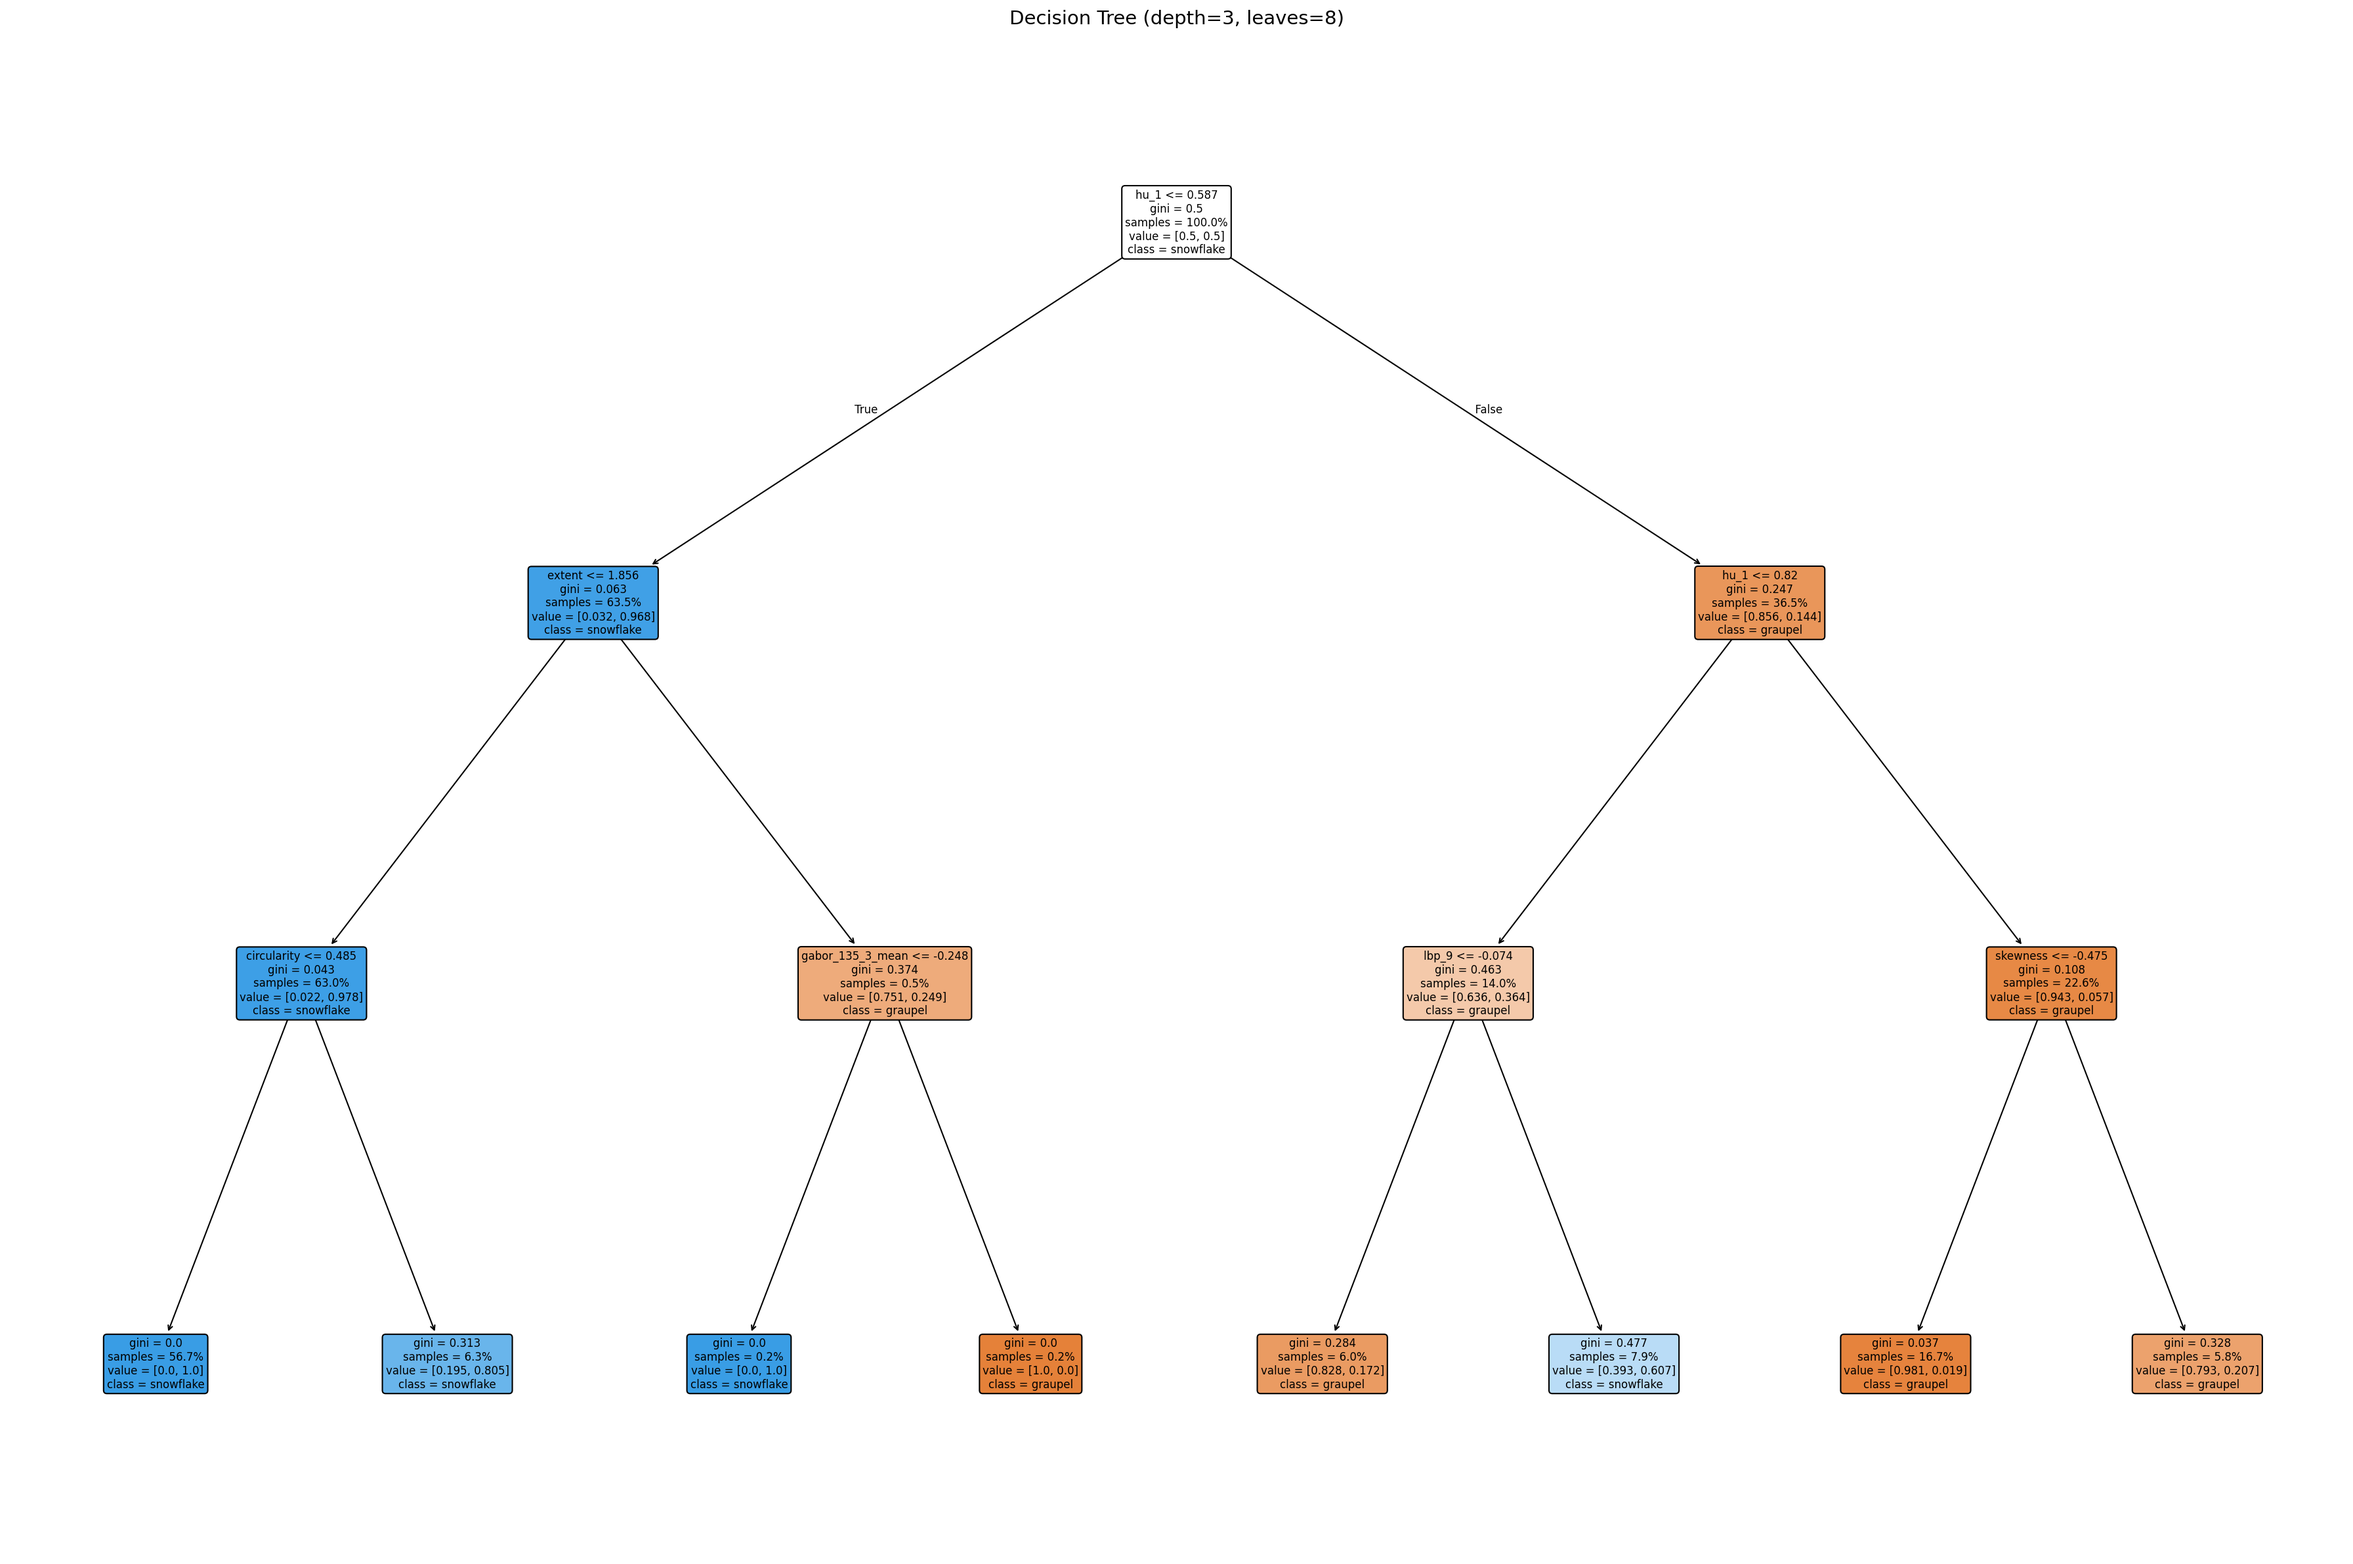
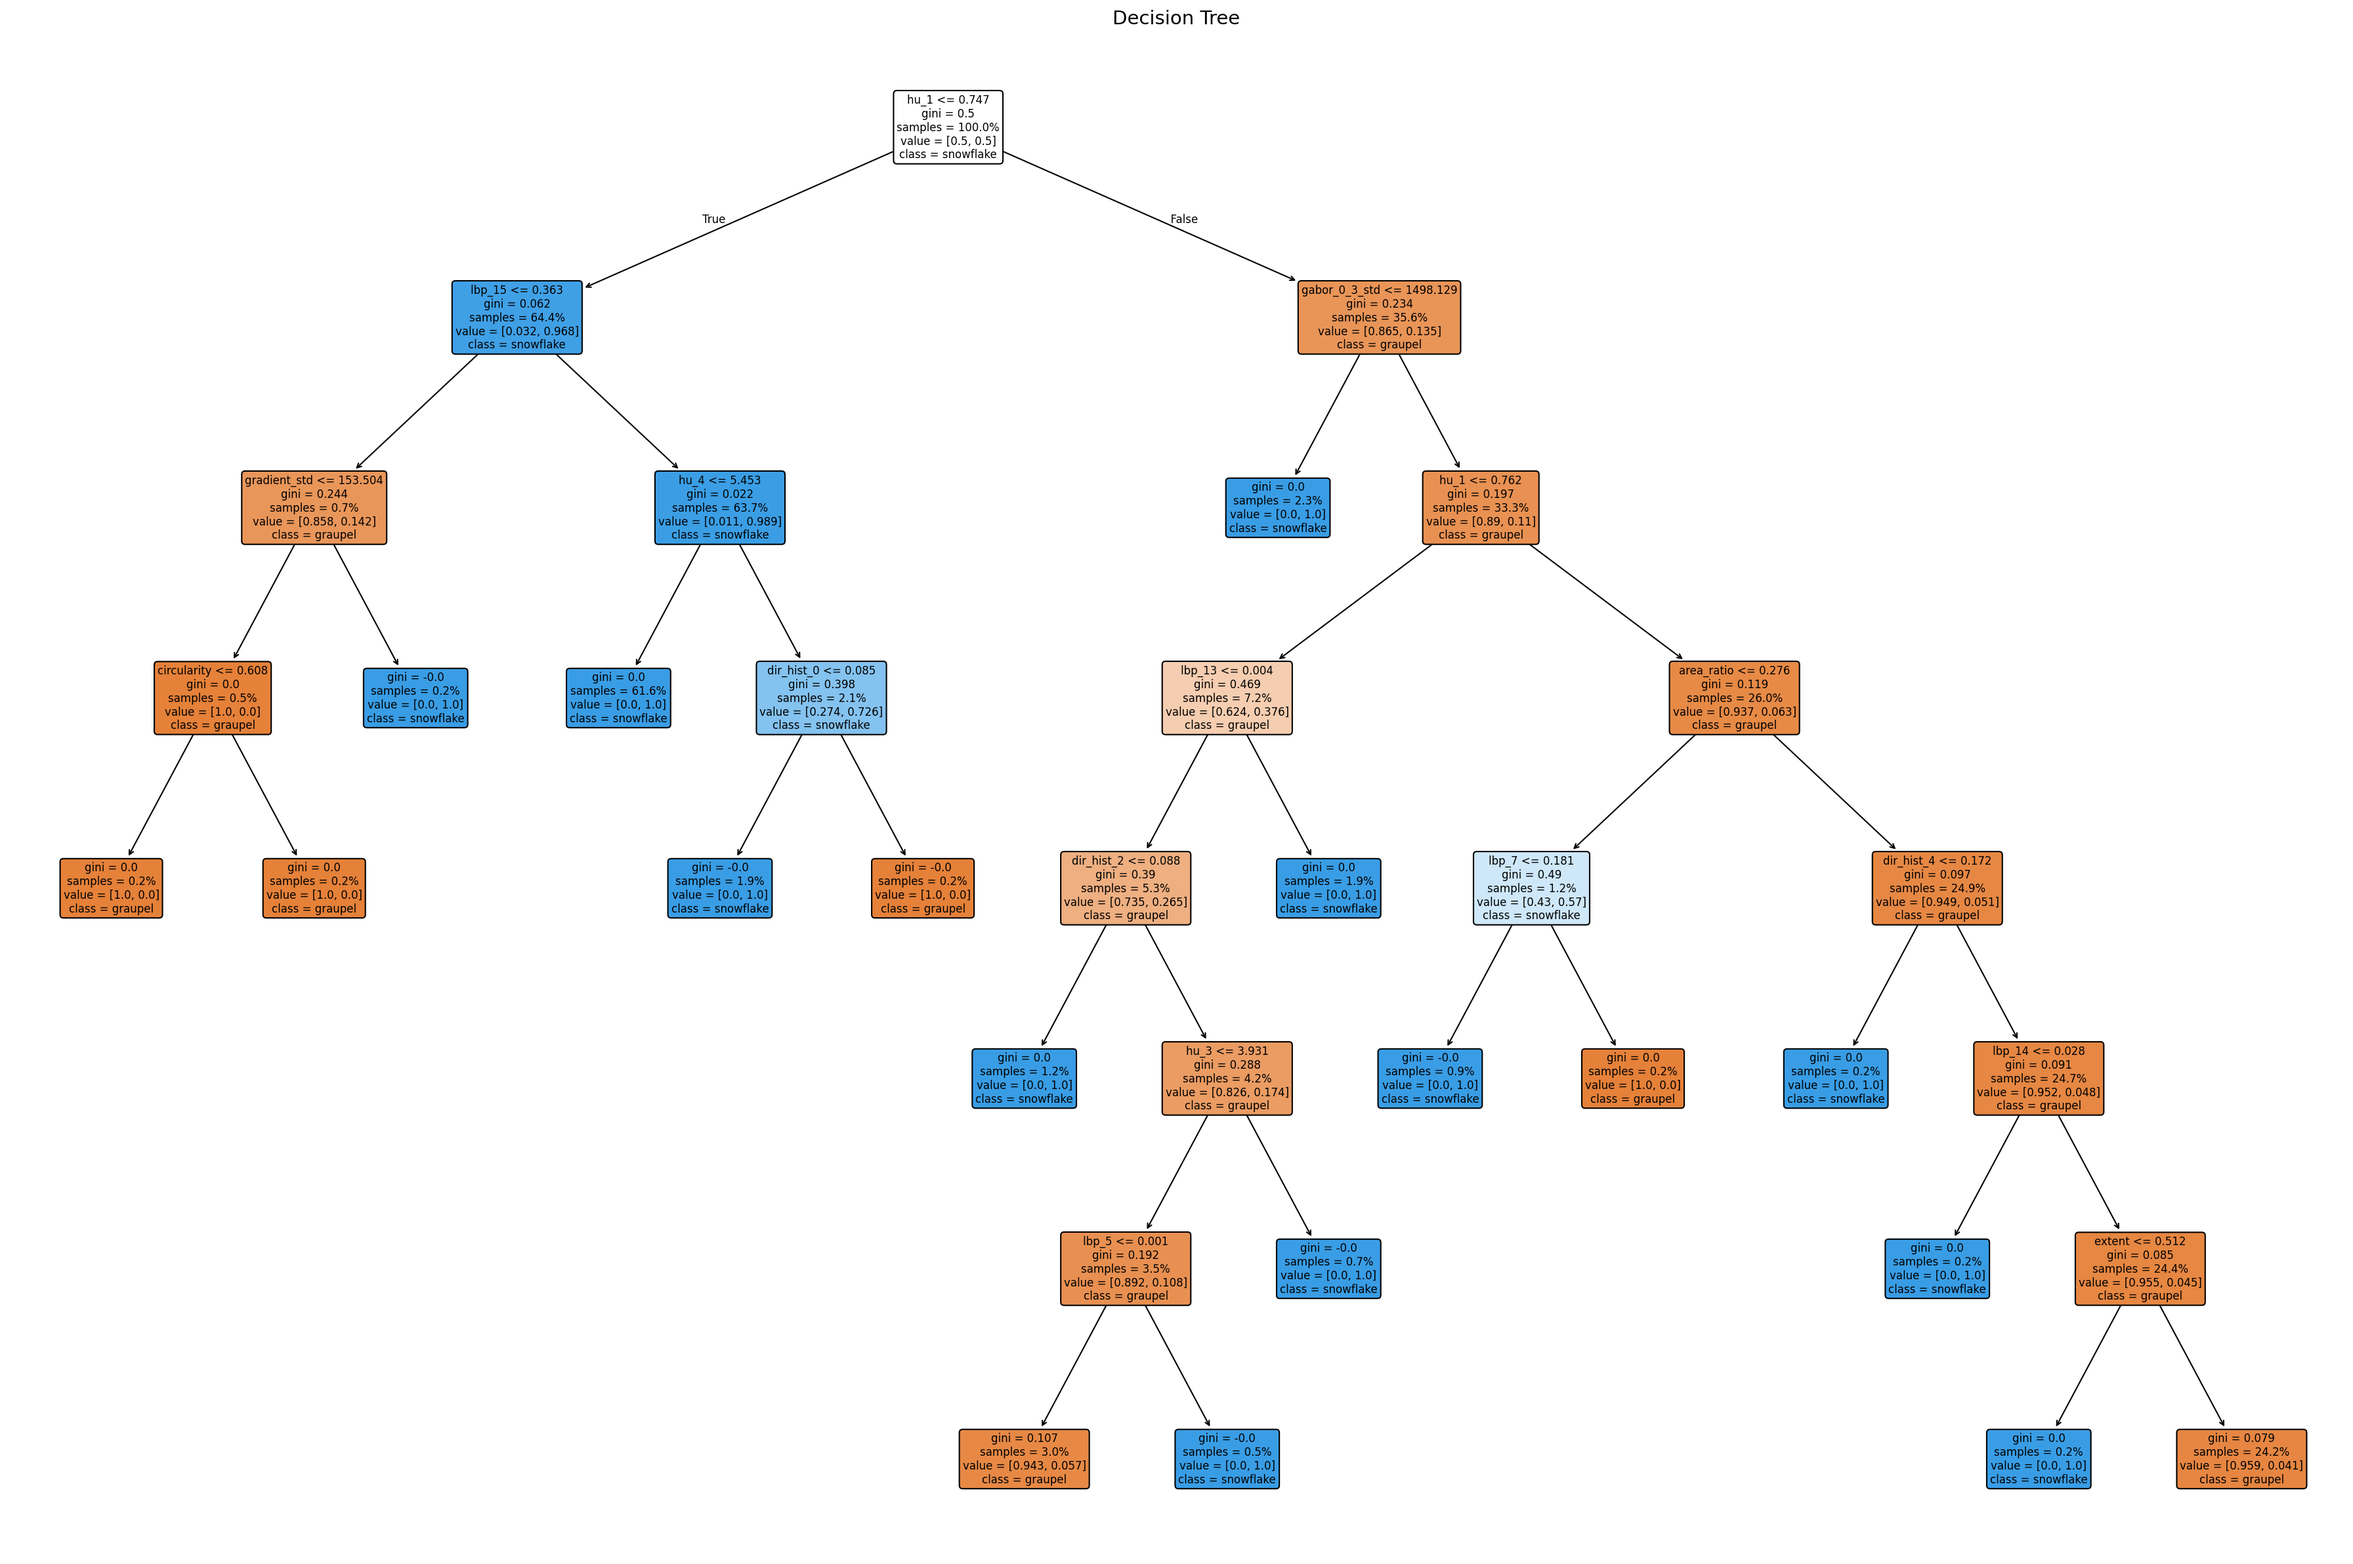
Remove unnecessary image resize and padding
- Remove resize_with_padding function
- Load images with their original sizes
- Remove --image-size command line argument
- Update type annotations to use list[np.ndarray] for images
- Update docstrings to reflect that images can have different sizes

diff --git a/scripts/main.py b/scripts/main.py
@@ -47,7 +47,7 @@ def compute_metrics(y_true: np.ndarray, y_pred: np.ndarray) -> dict[str, float |
 
 
 def run_cross_validation(
-    images: np.ndarray,
+    images: list[np.ndarray],
     labels: np.ndarray,
     n_folds: int = 5,
     random_seed: int = 42,
@@ -56,8 +56,8 @@ def run_cross_validation(
     クロスバリデーションを実行する
 
     Args:
-        images: 画像データ (N, H, W, C)
-        labels: ラベル (N,)
+        images: 画像データのリスト（各画像は(H, W, C)のRGB画像）
+        labels: ラベル配列 (N,)
         n_folds: 分割数
         random_seed: 乱数シード
 
@@ -82,7 +82,8 @@ def run_cross_validation(
     # 各Foldで訓練と評価を実行
     for fold_idx, (train_idx, test_idx) in enumerate(skf.split(images, labels)):
         # 訓練データとテストデータに分割
-        images_train, images_test = images[train_idx], images[test_idx]
+        images_train = [images[i] for i in train_idx]
+        images_test = [images[i] for i in test_idx]
         labels_train, labels_test = labels[train_idx], labels[test_idx]
 
         # 分類器を作成して訓練
@@ -145,7 +146,6 @@ def main(
     data_dir: Path,
     output_dir: Path,
     n_folds: int,
-    image_size: int,
     seed: int,
 ) -> None:
     """メイン関数"""
@@ -157,7 +157,7 @@ def main(
 
     # データ読み込み
     print("\nLoading data...")
-    images, labels, class_names = load_dataset(data_dir, (image_size, image_size))
+    images, labels, class_names = load_dataset(data_dir)
     print(f"  Samples: {len(images)}, Classes: {dict(zip(class_names, np.bincount(labels)))}")
 
     # クロスバリデーション
@@ -185,8 +185,7 @@ if __name__ == "__main__":
     parser.add_argument("--data-dir", type=str, default="dataset")
     parser.add_argument("--output-dir", type=str, default="output")
     parser.add_argument("--n-folds", type=int, default=5)
-    parser.add_argument("--image-size", type=int, default=128)
     parser.add_argument("--seed", type=int, default=42)
     args = parser.parse_args()
 
-    main(Path(args.data_dir), Path(args.output_dir), args.n_folds, args.image_size, args.seed)
+    main(Path(args.data_dir), Path(args.output_dir), args.n_folds, args.seed)

diff --git a/scripts/utils.py b/scripts/utils.py
@@ -6,22 +6,18 @@ import cv2
 import numpy as np
 
 
-def resize_with_padding(image: np.ndarray, target_size: tuple[int, int]) -> np.ndarray:
-    """アスペクト比を維持しながらパディングでサイズを揃える"""
-    h, w = image.shape[:2]
-    target_h, target_w = target_size
-    scale = min(target_w / w, target_h / h)
-    new_w, new_h = int(w * scale), int(h * scale)
-
-    resized = cv2.resize(image, (new_w, new_h), interpolation=cv2.INTER_AREA)
-    padded = np.zeros((target_h, target_w, image.shape[2]), dtype=image.dtype)
-    pad_h, pad_w = (target_h - new_h) // 2, (target_w - new_w) // 2
-    padded[pad_h:pad_h + new_h, pad_w:pad_w + new_w] = resized
-    return padded
-
-
-def load_dataset(data_dir: Path, image_size: tuple[int, int]) -> tuple[np.ndarray, np.ndarray, list[str]]:
-    """データセットを読み込む"""
+def load_dataset(data_dir: Path) -> tuple[list[np.ndarray], np.ndarray, list[str]]:
+    """
+    データセットを読み込む
+    
+    Args:
+        data_dir: データセットのディレクトリ
+    
+    Returns:
+        images: 画像のリスト（各画像はサイズが異なる可能性あり）
+        labels: ラベル配列
+        class_names: クラス名のリスト
+    """
     class_names = ["graupel", "snowflake"]
     images, labels = [], []
 
@@ -31,8 +27,8 @@ def load_dataset(data_dir: Path, image_size: tuple[int, int]) -> tuple[np.ndarra
             img = cv2.imread(str(img_path))
             if img is not None:
                 img = cv2.cvtColor(img, cv2.COLOR_BGR2RGB)
-                images.append(resize_with_padding(img, image_size))
+                images.append(img)
                 labels.append(label)
 
-    return np.array(images), np.array(labels), class_names
+    return images, np.array(labels), class_names
 

diff --git a/scripts/visualize_tree.py b/scripts/visualize_tree.py
@@ -16,9 +16,12 @@ from snow_crystal_classifier import SnowCrystalClassifier
 from utils import load_dataset
 
 
-def extract_features(images: np.ndarray) -> tuple[np.ndarray, list[str]]:
+def extract_features(images: list[np.ndarray]) -> tuple[np.ndarray, list[str]]:
     """
     画像から特徴量を抽出する
+    
+    Args:
+        images: 画像データのリスト（各画像は(H, W, C)のRGB画像）
     
     Returns:
         特徴量配列と特徴量名のリスト
@@ -79,7 +82,6 @@ def main(
     data_dir: Path,
     output_dir: Path,
     n_folds: int,
-    image_size: int,
     seed: int,
 ) -> None:
     """メイン関数"""
@@ -91,7 +93,7 @@ def main(
 
     # データ読み込み
     print("\nLoading data...")
-    images, labels, class_names = load_dataset(data_dir, (image_size, image_size))
+    images, labels, class_names = load_dataset(data_dir)
     print(f"  Samples: {len(images)}")
 
     # 特徴量抽出
@@ -101,7 +103,7 @@ def main(
 
     # クロスバリデーション
     tree = DecisionTreeClassifier(
-        max_depth=3,
+        max_depth=7,
         class_weight="balanced",
         random_state=seed,
     )
@@ -128,8 +130,7 @@ if __name__ == "__main__":
     parser.add_argument("--data-dir", type=str, default="dataset")
     parser.add_argument("--output-dir", type=str, default="output")
     parser.add_argument("--n-folds", type=int, default=5)
-    parser.add_argument("--image-size", type=int, default=128)
     parser.add_argument("--seed", type=int, default=42)
     args = parser.parse_args()
 
-    main(Path(args.data_dir), Path(args.output_dir), args.n_folds, args.image_size, args.seed)
+    main(Path(args.data_dir), Path(args.output_dir), args.n_folds, args.seed)

diff --git a/src/snow_crystal_classifier/classifier.py b/src/snow_crystal_classifier/classifier.py
@@ -31,7 +31,7 @@ class SnowCrystalClassifier:
         モデルを訓練する
 
         Args:
-            X_train: 訓練画像データ (N, H, W, C)
+            X_train: 訓練画像データのリスト（各画像は(H, W, C)のRGB画像）
             y_train: 訓練ラベル (N,)
 
         Returns:
@@ -46,7 +46,7 @@ class SnowCrystalClassifier:
         予測を行う
 
         Args:
-            X: 入力画像データ (N, H, W, C)
+            X: 入力画像データのリスト（各画像は(H, W, C)のRGB画像）
 
         Returns:
             予測ラベル (N,)
@@ -59,7 +59,7 @@ class SnowCrystalClassifier:
         画像から特徴量を抽出する
 
         Args:
-            images: 画像データ (N, H, W, C)
+            images: 画像データのリスト（各画像は(H, W, C)のRGB画像）
 
         Returns:
             特徴量配列 (N, n_features)
